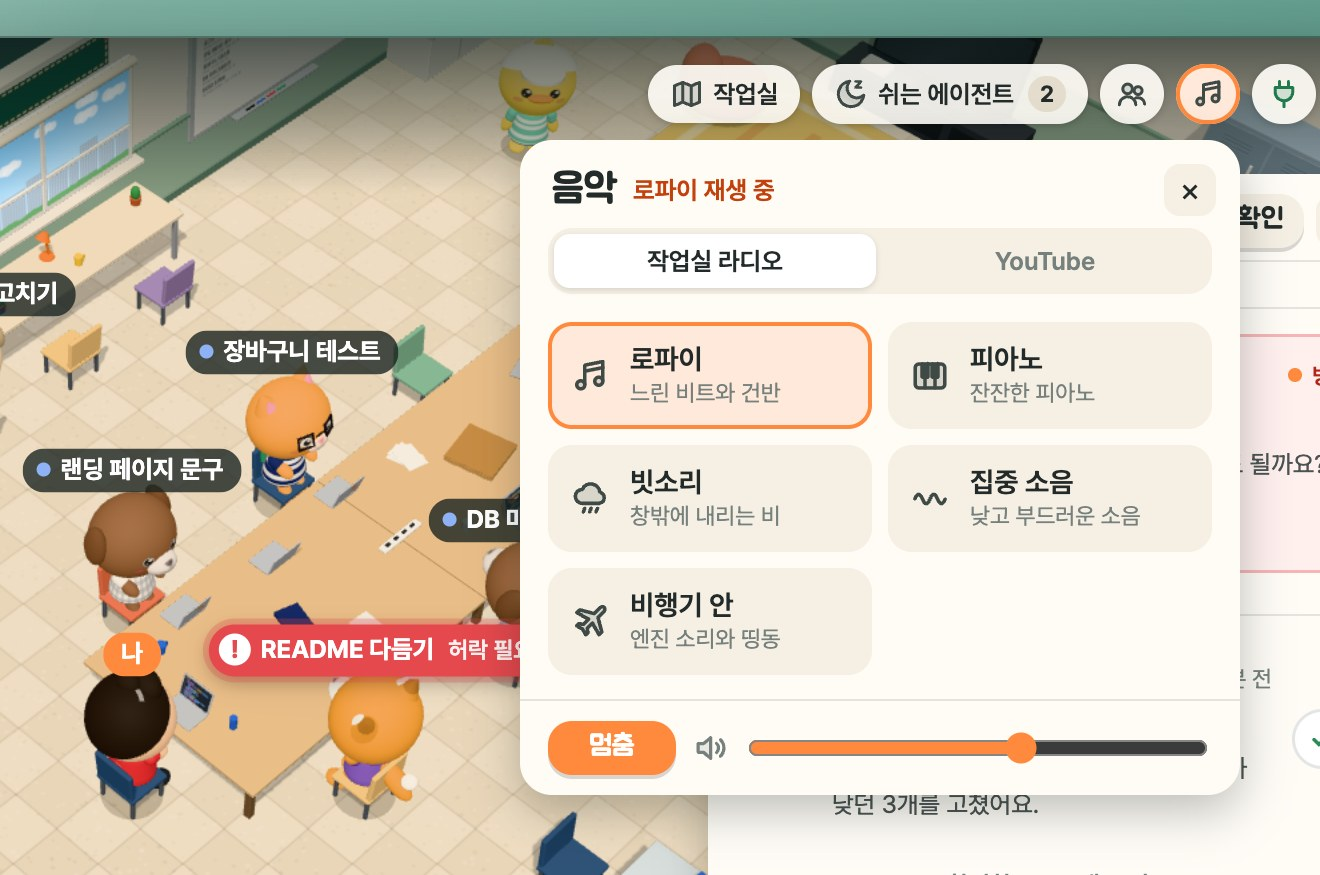
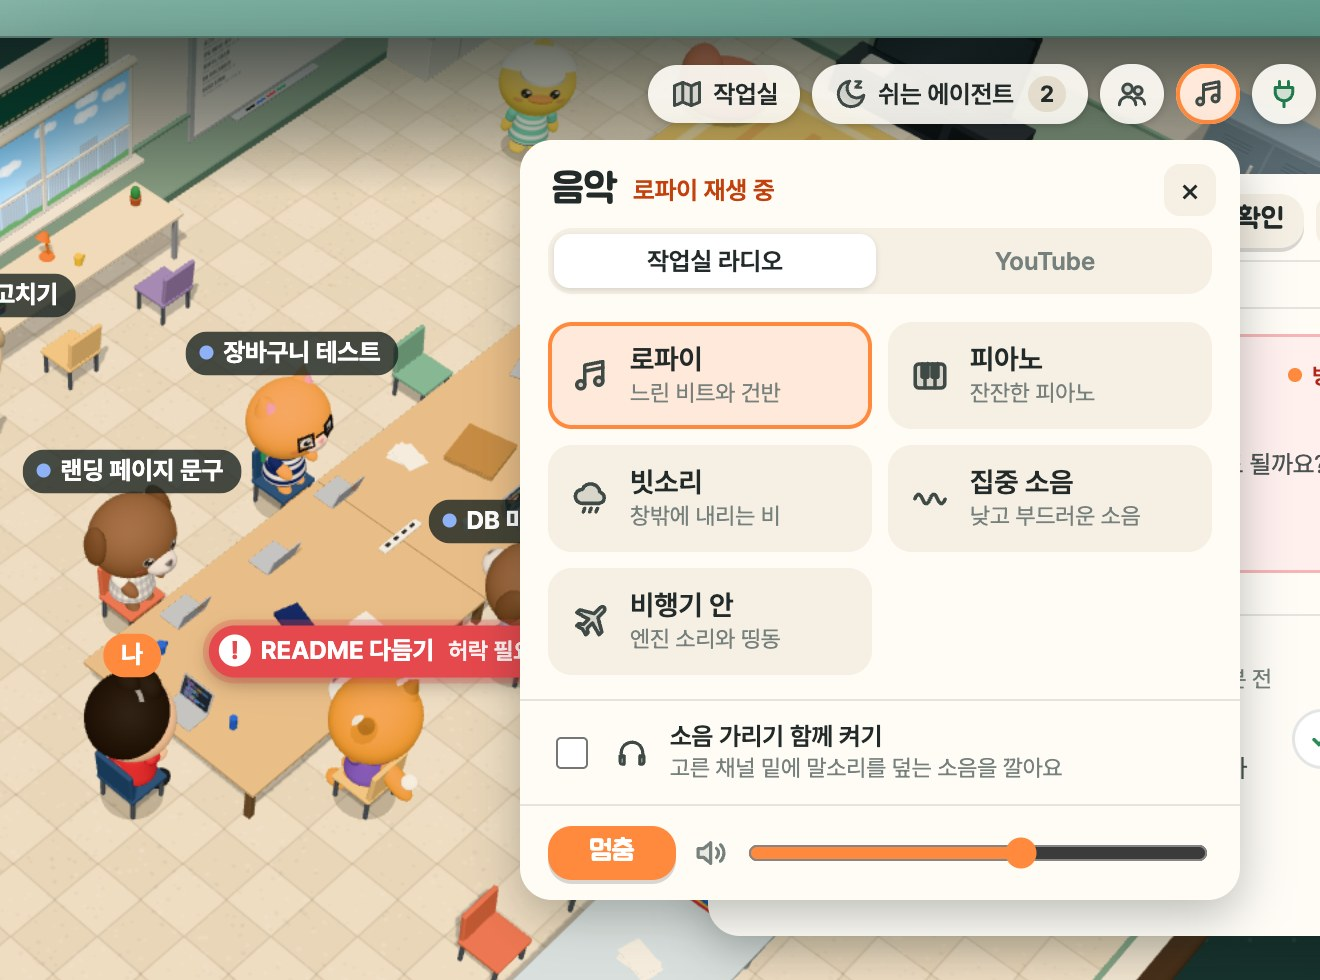
에이전트 작업실 0.4.4: 작업실 라디오에 소음 가리기 함께 켜기
- 소음 가리기: 말소리 음역(300~3000Hz)을 고르게 채우는 소음. 채널이 아니라 고른 채널 밑에 함께 깔린다 (radio.js 의 mask, setMask)
- 라디오 설정에 mask(참, 거짓) 추가: 채널을 바꿔도 유지되고 settings.json 에 남는다
- 음악 패널에 스위치, 상단바 메뉴의 작업실 라디오에 체크 항목
- 마이크는 쓰지 않는다. 다른 채널처럼 Web Audio 로 그 자리에서 만든다
- README 설명과 음악 패널 그림 갱신

diff --git a/renderer/radio.js b/renderer/radio.js
@@ -1,6 +1,7 @@
 // 작업실 라디오: 인터넷 없이 Web Audio로 그 자리에서 만드는 음악 (음악 파일이 없어서 저작권 걱정도 없다)
-// main.js가 숨은 창에서 이 페이지를 띄우고 window.radio.set({ on, station, volume })로 조절한다.
+// main.js가 숨은 창에서 이 페이지를 띄우고 window.radio.set({ on, station, volume, mask })로 조절한다.
 // 채널: lofi(로파이), piano(피아노), rain(빗소리), focus(집중 소음), cabin(비행기 안)
+// mask(소음 가리기)는 채널이 아니라, 고른 채널 밑에 함께 깔리는 소리다
 const ctx = new AudioContext({ latencyHint: 'playback' });
 const out = ctx.createGain();
 out.gain.value = 0;
@@ -413,6 +414,50 @@ function focus() {
   };
 }
 
+// 소음 가리기: 옆자리 말소리, 키보드 소리를 덮는 고른 소음 (마이크는 쓰지 않는다. 소리를 지우는 것이 아니라 덮는다)
+// 채널과 따로 켜고 끈다. 켜 두면 로파이든 비행기 안이든 고른 채널 밑에 함께 깔린다
+// 말소리가 몰린 음역(300~3000Hz)을 채우고, 크기가 출렁이면 덮는 힘이 약해지므로 일부러 변화 없이 고르게 낸다
+function mask() {
+  const bus = makeBus();
+  const hp = ctx.createBiquadFilter();
+  hp.type = 'highpass';
+  hp.frequency.value = 110;
+  const lp = ctx.createBiquadFilter();
+  lp.type = 'lowpass';
+  lp.frequency.value = 5200;
+  lp.Q.value = 0.3;
+  // 말소리 음역을 조금 도드라지게
+  const voice = ctx.createBiquadFilter();
+  voice.type = 'peaking';
+  voice.frequency.value = 1100;
+  voice.Q.value = 0.5;
+  voice.gain.value = 4;
+  hp.connect(voice).connect(lp).connect(bus);
+  // 같은 소음 두 겹을 속도를 조금 다르게 틀어서, 6초마다 되풀이되는 티가 나지 않게 한다
+  const a = loop(PINK, hp, 0.62);
+  const b = loop(PINK, hp, 0.52);
+  a.src.playbackRate.value = 0.94;
+  b.src.playbackRate.value = 1.07;
+  // 낮게 받쳐 주는 소리 (쉬익 소리만 나면 귀가 쉽게 피곤하다)
+  const low = ctx.createBiquadFilter();
+  low.type = 'lowpass';
+  low.frequency.value = 420;
+  low.connect(bus);
+  const bed = loop(BROWN, low, 0.34);
+  return {
+    bus,
+    stop() {
+      for (const s of [a.src, b.src, bed.src]) {
+        try {
+          s.stop();
+        } catch {}
+      }
+      setTimeout(() => bus.disconnect(), 200);
+    },
+    schedule() {},
+  };
+}
+
 // 비행기 안: 낮게 깔리는 엔진 소리와 환기구 바람 소리 위로, 가끔 기내 방송 전의 '띵동'이 울린다
 // 띵동은 종소리처럼 배음을 겹친 두 음(높은 음 → 낮은 음)이고, 기내 스피커처럼 살짝 좁게 걸러서 낸다
 function cabin() {
@@ -513,6 +558,22 @@ function cabin() {
 }
 
 const STATIONS = { lofi, piano: pianoStation, rain, focus, cabin };
+// 소음 가리기 켜고 끄기 (채널과 따로 움직인다)
+let maskNow = null;
+function setMask(want) {
+  const now = ctx.currentTime;
+  if (want && !maskNow) {
+    maskNow = mask();
+    maskNow.bus.gain.setValueAtTime(0, now);
+    maskNow.bus.gain.setTargetAtTime(0.85, now + 0.05, 0.5);
+  } else if (!want && maskNow) {
+    const old = maskNow;
+    maskNow = null;
+    old.bus.gain.cancelScheduledValues(now);
+    old.bus.gain.setTargetAtTime(0, now, 0.3);
+    setTimeout(() => old.stop(), 1600);
+  }
+}
 let cur = null;
 let curName = '';
 let timer = null;
@@ -543,6 +604,7 @@ window.radio = {
     if (s.on) {
       if (ctx.state !== 'running') await ctx.resume();
       switchTo(station);
+      setMask(!!s.mask);
       out.gain.cancelScheduledValues(now);
       out.gain.setTargetAtTime(vol * vol * 0.9, now, 0.25); // 귀에 고르게 들리게 제곱으로
       if (!timer) timer = setInterval(tick, 200);
@@ -558,10 +620,12 @@ window.radio = {
         cur?.stop();
         cur = null;
         curName = '';
+        maskNow?.stop();
+        maskNow = null;
         ctx.suspend();
       }, 1500);
     }
-    return { on, station: curName };
+    return { on, station: curName, mask: !!maskNow };
   },
   // 점검용: 지금 소리 크기 (평균과 최대)
   level() {
@@ -573,6 +637,6 @@ window.radio = {
       sum += v * v;
       peak = Math.max(peak, Math.abs(v));
     }
-    return { rms: Math.sqrt(sum / a.length), peak, state: ctx.state, station: curName };
+    return { rms: Math.sqrt(sum / a.length), peak, state: ctx.state, station: curName, mask: !!maskNow };
   },
 };

diff --git a/server.js b/server.js
@@ -161,8 +161,8 @@ function startServer({
   isViewing, // 작업실 창이 열려 있는지 (닫혀 있으면 덜 자주 확인)
   getLoginItem,
   setLoginItem,
-  radio, // ({ on, station, volume }): 작업실 라디오 켜고 끄기, 채널과 볼륨
-  radioState, // () => { on, station, volume }
+  radio, // ({ on, station, volume, mask }): 작업실 라디오 켜고 끄기, 채널과 볼륨, 소음 가리기
+  radioState, // () => { on, station, volume, mask }
   youtube, // ('play', { list, v }) | ('show', rect) | ('hide') | ('stop'): 작업실 창 안 YouTube 미니 플레이어
   youtubeState, // () => { on, title }
   update, // ('check') | ('install'): 새 버전 확인, 업데이트
@@ -204,12 +204,13 @@ function startServer({
   };
   const withKey = (x) => ({ ...x, staffKey: staffOf(x)?.key || null, canSession: canOpenSession(x.app || '', x.agentId || x.id || '') });
   // 설정 바꾸기 (화면에서도, 상단바 메뉴에서도 쓴다)
-  // 작업실 라디오: 고른 채널과 볼륨만 남긴다
+  // 작업실 라디오: 고른 채널과 볼륨, 소음 가리기를 함께 켤지만 남긴다
   function saveRadio(r = {}) {
     const cur = settings.radio || {};
     settings.radio = {
       station: RADIO_STATIONS.has(r.station) ? r.station : RADIO_STATIONS.has(cur.station) ? cur.station : 'lofi',
       volume: Number.isFinite(r.volume) ? Math.max(0, Math.min(1, r.volume)) : Number.isFinite(cur.volume) ? cur.volume : 0.6,
+      mask: typeof r.mask === 'boolean' ? r.mask : cur.mask === true,
     };
     saveSettings();
   }
@@ -269,7 +270,7 @@ function startServer({
             sentHome: settings.sentHome,
             agentNames: settings.agentNames,
           },
-          radio: radioState?.() || { on: false, station: settings.radio?.station || 'lofi', volume: settings.radio?.volume ?? 0.6 },
+          radio: radioState?.() || { on: false, station: settings.radio?.station || 'lofi', volume: settings.radio?.volume ?? 0.6, mask: settings.radio?.mask === true },
           youtube: youtubeState?.() || { on: false, title: '' },
           update: updateState?.() || { state: 'idle' },
           agents: s.agents.map(withKey),
@@ -381,6 +382,7 @@ function startServer({
         if (typeof body.on === 'boolean') r.on = body.on;
         if (RADIO_STATIONS.has(body.station)) r.station = body.station;
         if (Number.isFinite(body.volume)) r.volume = Math.max(0, Math.min(1, body.volume));
+        if (typeof body.mask === 'boolean') r.mask = body.mask;
         saveRadio(r);
         radio?.(r);
         return json(res, 200, { ok: !!radio, radio: radioState?.() });

diff --git a/renderer/index.html b/renderer/index.html
@@ -44,6 +44,7 @@
   <symbol id="i-piano" viewBox="0 0 20 20"><rect x="2.6" y="4" width="14.8" height="12" rx="2" fill="currentColor" fill-opacity=".16"/><path d="M7.5 4v12M12.5 4v12"/><path d="M6.2 4v6.4M8.8 4v6.4M11.2 4v6.4M13.8 4v6.4" stroke-width="2.2"/></symbol>
   <symbol id="i-rain" viewBox="0 0 20 20"><path d="M6.2 12.2a3.5 3.5 0 0 1-.1-7 4.6 4.6 0 0 1 8.8 1.3 2.9 2.9 0 0 1-.3 5.7z" fill="currentColor" fill-opacity=".16"/><path d="M7.4 14.6l-.8 1.9M10.6 14.6l-.8 1.9M13.8 14.6l-.8 1.9"/></symbol>
   <symbol id="i-wave" viewBox="0 0 20 20"><path d="M2.4 10c1.3-3.2 2.5-3.2 3.8 0s2.5 3.2 3.8 0 2.5-3.2 3.8 0 2.5 3.2 3.8 0"/></symbol>
+  <symbol id="i-quiet" viewBox="0 0 20 20"><path d="M4 12.4V10a6 6 0 0 1 12 0v2.4"/><path d="M3.4 11.6h2.2v4.6H4.4a1 1 0 0 1-1-1zM14.4 11.6h2.2v3.6a1 1 0 0 1-1 1h-1.2z" fill="currentColor" fill-opacity=".16"/></symbol>
   <symbol id="i-volume" viewBox="0 0 20 20"><path d="M3.4 7.6h3l4-3.4v11.6l-4-3.4h-3z" fill="currentColor" fill-opacity=".16"/><path d="M13.6 7.4a3.6 3.6 0 0 1 0 5.2M15.8 5.4a6.4 6.4 0 0 1 0 9.2"/></symbol>
   <symbol id="i-copy" viewBox="0 0 20 20"><rect x="7" y="7" width="9.6" height="9.6" rx="2" fill="currentColor" fill-opacity=".16"/><path d="M13 7V5a1.6 1.6 0 0 0-1.6-1.6H5A1.6 1.6 0 0 0 3.4 5v6.4A1.6 1.6 0 0 0 5 13h2"/></symbol>
   <symbol id="i-pencil" viewBox="0 0 20 20"><path d="M12.6 4.4l3 3-8.4 8.4-3.6.6.6-3.6z" fill="currentColor" fill-opacity=".16"/><path d="M11 6l3 3"/></symbol>
@@ -177,6 +178,7 @@
     <button type="button" class="rst" data-st="focus" aria-pressed="false"><svg class="i" aria-hidden="true"><use href="#i-wave"/></svg><span><b>집중 소음</b><small>낮고 부드러운 소음</small></span></button>
     <button type="button" class="rst" data-st="cabin" aria-pressed="false"><svg class="i" aria-hidden="true"><use href="#i-plane"/></svg><span><b>비행기 안</b><small>엔진 소리와 띵동</small></span></button>
   </div>
+  <label class="popt rmask"><input type="checkbox" id="radioMask"><svg class="i" aria-hidden="true"><use href="#i-quiet"/></svg><span><b>소음 가리기 함께 켜기</b><small>고른 채널 밑에 말소리를 덮는 소음을 깔아요</small></span></label>
   <div class="pfoot"><button type="button" class="btn sm" id="radioPlay">재생</button><label class="rvol" title="볼륨"><svg class="i" aria-hidden="true"><use href="#i-volume"/></svg><input type="range" id="radioVol" min="0" max="100" step="1" aria-label="볼륨"></label></div>
   </div>
   <!-- YouTube: 링크를 넣으면 아래 영상 칸에서 작게 튼다 (main.js가 이 자리에 YouTube 플레이어를 겹쳐 놓는다) -->

diff --git a/renderer/app.js b/renderer/app.js
@@ -2697,7 +2697,7 @@ $('skillClose').onclick = () => toggleSkills(false);
 
 // ---------- 작업실 라디오: '음악' 버튼 아래 작은 팝업 (소리는 main.js의 숨은 창에서 만든다) ----------
 let musicPanelOpen = false;
-let radioNow = { on: false, station: 'lofi', volume: 0.6 };
+let radioNow = { on: false, station: 'lofi', volume: 0.6, mask: false };
 let radioTouched = 0;
 function placeMusicPanel() {
   const b = $('musicBtn').getBoundingClientRect();
@@ -2724,11 +2724,12 @@ function showRadio(r, force) {
   if (!r) return;
   // 방금 직접 바꿨으면 서버 값이 따라올 때까지 잠깐 기다린다 (슬라이더가 튀지 않게)
   if (!force && Date.now() - radioTouched < 1500) return;
-  radioNow = { on: !!r.on, station: r.station || 'lofi', volume: Number.isFinite(r.volume) ? r.volume : 0.6 };
+  radioNow = { on: !!r.on, station: r.station || 'lofi', volume: Number.isFinite(r.volume) ? r.volume : 0.6, mask: r.mask === true };
   updateMusicBtn();
   for (const b of document.querySelectorAll('#musicPanel .rst')) b.setAttribute('aria-pressed', String(b.dataset.st === radioNow.station));
   $('radioPlay').textContent = radioNow.on ? '멈춤' : '재생';
   $('radioVol').value = String(Math.round(radioNow.volume * 100));
+  $('radioMask').checked = radioNow.mask;
 }
 function radioSend(r) {
   radioTouched = Date.now();
@@ -2740,6 +2741,8 @@ $('musicBtn').onclick = () => toggleMusicPanel();
 $('musicClose').onclick = () => toggleMusicPanel(false);
 for (const b of document.querySelectorAll('#musicPanel .rst')) b.onclick = () => radioSend({ on: true, station: b.dataset.st });
 $('radioPlay').onclick = () => radioSend({ on: !radioNow.on, station: radioNow.station });
+// 소음 가리기: 채널을 바꿔도 켜 둔 채로 함께 나온다
+$('radioMask').onchange = (e) => radioSend({ mask: e.target.checked });
 let volTimer = 0;
 $('radioVol').oninput = (e) => {
   const v = Number(e.target.value) / 100;
@@ -2771,7 +2774,7 @@ function setMusicTab(tab) {
 }
 function updateMusicBtn() {
   $('musicBtn').setAttribute('aria-pressed', String(radioNow.on || ytNow.on));
-  $('musicState').textContent = radioNow.on ? `${STATION_KO[radioNow.station] || ''} 재생 중` : ytNow.on ? 'YouTube 재생 중' : '';
+  $('musicState').textContent = radioNow.on ? `${STATION_KO[radioNow.station] || ''}${radioNow.mask ? ' + 소음 가리기' : ''} 재생 중` : ytNow.on ? 'YouTube 재생 중' : '';
 }
 // ---------- YouTube 칸: 링크를 넣으면 영상 칸에 작게 튼다 (칸을 접어도 소리는 계속) ----------
 let ytNow = { on: false, title: '' };

diff --git a/main.js b/main.js
@@ -63,6 +63,8 @@ function showMenu() {
           { label: '끄기', type: 'radio', checked: !radio.on, click: () => setRadio({ on: false }) },
           { type: 'separator' },
           ...STATIONS.map(([id, label]) => ({ label, type: 'radio', checked: radio.on && radio.station === id, click: () => setRadio({ on: true, station: id }) })),
+          { type: 'separator' },
+          { label: '소음 가리기 함께 켜기', type: 'checkbox', checked: radio.mask, click: () => setRadio({ mask: !radio.mask }) },
         ],
       },
       {
@@ -275,7 +277,7 @@ const STATIONS = [
   ['cabin', '비행기 안'],
 ];
 let radioWin = null;
-const radio = { on: false, station: 'lofi', volume: 0.6 };
+const radio = { on: false, station: 'lofi', volume: 0.6, mask: false }; // mask: 소음 가리기를 채널과 함께 켠다
 function radioPush() {
   if (radioWin && !radioWin.isDestroyed()) radioWin.webContents.executeJavaScript(`window.radio && window.radio.set(${JSON.stringify(radio)})`).catch(() => {});
 }
@@ -300,7 +302,8 @@ function setRadio(s) {
   if (STATIONS.some(([id]) => id === s.station)) radio.station = s.station;
   if (Number.isFinite(s.volume)) radio.volume = Math.max(0, Math.min(1, s.volume));
   if (typeof s.on === 'boolean') radio.on = s.on;
-  srv?.saveRadio?.({ station: radio.station, volume: radio.volume });
+  if (typeof s.mask === 'boolean') radio.mask = s.mask;
+  srv?.saveRadio?.({ station: radio.station, volume: radio.volume, mask: radio.mask });
   if (radio.on && ytOn()) ytStop(); // 라디오를 켜면 YouTube는 끈다 (하나만 나오게)
   radioApply();
 }
@@ -648,6 +651,7 @@ app.whenReady().then(async () => {
   const savedRadio = srv.getSettings().radio || {};
   if (STATIONS.some(([id]) => id === savedRadio.station)) radio.station = savedRadio.station;
   if (Number.isFinite(savedRadio.volume)) radio.volume = Math.max(0, Math.min(1, savedRadio.volume));
+  radio.mask = savedRadio.mask === true;
   setupUrl = srv.setupUrl;
   // 외부 인터넷 차단: 앱 화면은 이 Mac 안의 작업실 서버(127.0.0.1)에만 접속할 수 있다
   const local = `http://127.0.0.1:${srv.port}/`;

diff --git a/renderer/desktop.css b/renderer/desktop.css
@@ -331,6 +331,11 @@ body.mini #card .nameIn { font-size: var(--fs-l); }
 .rvol .i { width: 18px; height: 18px; color: var(--muted); }
 .rvol input { flex: 1 1 auto; width: 100%; min-width: 80px; accent-color: var(--accent); }
 #radioPlay { min-width: 64px; }
+.rmask { gap: 10px; padding: 10px 14px; }
+.rmask .i { width: 18px; height: 18px; color: var(--icon); flex: none; }
+.rmask span { display: grid; gap: 1px; min-width: 0; }
+.rmask b { font: 600 var(--fs-s) var(--body); color: var(--ink); }
+.rmask small { color: var(--muted); font-size: var(--fs-xs); line-height: 1.35; }
 #musicBtn[aria-pressed="true"] { background: var(--accent-weak) !important; box-shadow: inset 0 0 0 2px var(--accent) !important; }
 #musicBtn .i { color: var(--icon); }
 

diff --git a/README.md b/README.md
@@ -37,7 +37,7 @@
 
 ## 1. 설치하기
 
-1. [Releases](https://github.com/sangjun121/agent-office/releases/latest)에서 `agent-office-0.4.3-arm64.dmg`를 받아요.
+1. [Releases](https://github.com/sangjun121/agent-office/releases/latest)에서 `agent-office-0.4.4-arm64.dmg`를 받아요.
 2. DMG를 열고 **Agent Office**를 **Applications** 폴더로 끌어다 놓아요.
 3. 처음 열면 "Apple에서 확인할 수 없는 개발자" 경고가 떠요. 아직 Apple 공증을 받지 않은 앱이라서 그래요.
    - **시스템 설정 → 개인정보 보호 및 보안**으로 가서 아래쪽의 **그래도 열기**를 누르면 돼요.
@@ -50,7 +50,7 @@
 받은 파일이 릴리스에 올린 파일과 같은지 확인하고 싶다면, 아래 값을 릴리스의 `SHA256SUMS.txt`와 비교해 보세요.
 
 ```sh
-shasum -a 256 agent-office-0.4.3-arm64.dmg
+shasum -a 256 agent-office-0.4.4-arm64.dmg
 ```
 
 > Intel Mac용 파일은 아직 없어요. 필요하면 [직접 빌드하기](#직접-빌드하기)를 참고하세요.
@@ -232,6 +232,7 @@ shasum -a 256 agent-office-0.4.3-arm64.dmg
 
 1. 채널을 누르면 바로 나와요. **재생**, **멈춤** 버튼과 볼륨 막대로 조절해요.
 2. 창을 닫아도 계속 나와요. 상단바 아이콘을 오른쪽 클릭하고 **작업실 라디오**에서 채널을 고르거나 끌 수도 있어요.
+3. **소음 가리기 함께 켜기**를 켜 두면 고른 채널 밑에 고른 소음이 함께 깔려서 주변 말소리와 키보드 소리를 덮어 줘요. 채널을 바꿔도 켜진 채로 있어요. 헤드폰의 노이즈 캔슬링처럼 소리를 지우는 것은 아니고 덮는 방식이라 마이크는 쓰지 않아요.
 
 ### YouTube
 
